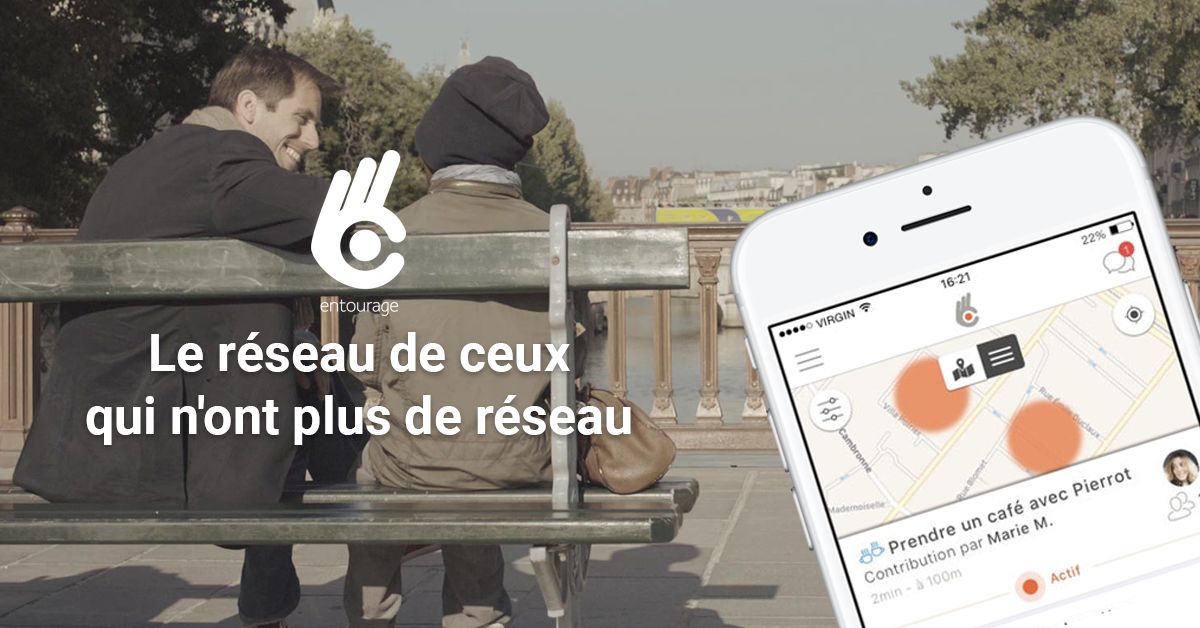
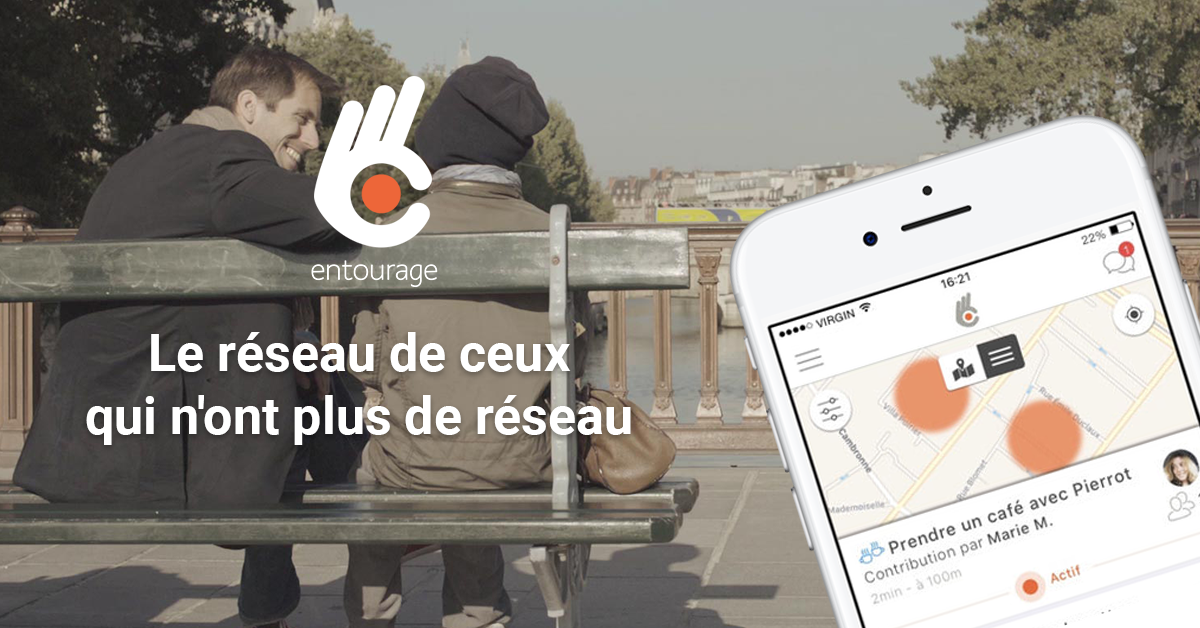
[DON] Landing final + [WEBAPP] Events uuid change +fix hours selection when creating events

Changed region(s): [[0.2467, 0.121, 0.37, 0.5143]]

diff --git a/theme/css/custom-pages.css b/theme/css/custom-pages.css
@@ -11,15 +11,18 @@
 	display: none !important;
 }
 
-#page-le-don-de-chaleur-humaine #site-content .white-btn {
+#page-le-don-de-chaleur-humaine #site-content .btn:not(#subscribe-newsletter) {
 	padding: 0 55px;
 	height: 40px;
 	line-height: 40px;
-	color: #ff5100;
 	font-size: 17px;
-	box-shadow: 0px 3px 7px rgba(0, 0, 0, 0.35);
 	text-transform: uppercase;
 	font-weight: 800;
+}
+
+#page-le-don-de-chaleur-humaine #site-content .white-btn {
+	color: #ff5100;
+	box-shadow: 0px 3px 7px rgba(0, 0, 0, 0.35);
 }
 
 #page-le-don-de-chaleur-humaine #site-content h2 {
@@ -33,10 +36,12 @@
 }
 
 #page-le-don-de-chaleur-humaine #page-header {
+	position: relative;
 	height: 510px;
     display: table;
     width: 100%;
-    background-position: 0 -19px;
+    background-position: 50% top;
+    background-repeat: no-repeat;
     background-size: cover;
     background-image: url(../img/landing-don/header-bg.png);
     color: rgb(255, 255, 255);
@@ -146,6 +151,18 @@
     transition: transform 0.3s;
 }
 
+#page-le-don-de-chaleur-humaine #page-header .names {
+	position: absolute;
+	left: 0;
+	width: 100%;
+	bottom: 20px;
+    display: flex;
+    justify-content: space-between;
+    padding: 0 60px;
+    font-size: 14px;
+    text-shadow: 0px 0px 9px #000, 0px 0px 2px #000;
+}
+
 @keyframes pulseHeart {
     30% {
         transform: rotate(-20deg) scale(0.8);
@@ -219,12 +236,17 @@
 #page-le-don-de-chaleur-humaine #page-video .section-content h3 {
     font-size: 21px;
     font-weight: bold;
-    margin-top: 30px;
+    margin-top: 20px;
 }
 
 #page-le-don-de-chaleur-humaine #page-video .quote {
 	font-style: italic;
 	margin-top: 30px;
+}
+
+#page-le-don-de-chaleur-humaine #page-goals img {
+	max-width: 600px;
+	width: 90%;
 }
 
 #page-le-don-de-chaleur-humaine #page-goals .events {
@@ -271,9 +293,8 @@
 	margin-bottom: 6px;
 }
 
-#page-le-don-de-chaleur-humaine #page-goals .white-btn {
+#page-le-don-de-chaleur-humaine #page-goals .orange-btn {
 	margin-top: 40px;
-	box-shadow: 0 0 0 6px #eee;
 }
 
 #page-le-don-de-chaleur-humaine #page-goals:after {
@@ -313,16 +334,20 @@
 	font-style: italic;
 }
 
+#page-le-don-de-chaleur-humaine #page-stories img {
+	max-width: 90%;
+}
+
 #page-le-don-de-chaleur-humaine #page-stories p strong {
 	font-weight: bold;
 }
 
-#page-le-don-de-chaleur-humaine #page-stories .white-btn {
+#page-le-don-de-chaleur-humaine #page-stories .white-btn:not(#subscribe-newsletter) {
 	padding: 0 15px;
 	height: 33px;
 	line-height: 33px;
 	color: #505050;
-	font-size: 15px;
+	font-size: 14px;
 }
 
 #page-le-don-de-chaleur-humaine #page-stories:after {
@@ -456,21 +481,23 @@
 
 #page-le-don-de-chaleur-humaine #page-quotes ul.section-quotes-list {
     font-size: 0;
-    display: inline-flex;
-    flex-wrap: wrap;
+    display: inline-block;
     max-width: 930px;
-    justify-content: space-between; 
 }
 
 #page-le-don-de-chaleur-humaine #page-quotes li.section-quote {
     position: relative;
     display: inline-block;
     width: 270px;
-    height: fit-content;    
+    margin-right: 20px;
     margin-bottom: 30px;
     vertical-align: top;
     background: #fff;
     box-shadow: 0px 3px 7px 0px rgba(0, 0, 0, 0.21);
+}
+
+#page-le-don-de-chaleur-humaine #page-quotes li.section-quote:nth-child(3n) {
+	margin-right: 0;
 }
 
 #page-le-don-de-chaleur-humaine #page-quotes li.section-quote:after {
@@ -571,6 +598,13 @@
 }
 
 @media (max-width: 800px) {
+	#page-le-don-de-chaleur-humaine #page-header {
+	    background-position: 0;	
+	}
+
+	#page-le-don-de-chaleur-humaine #page-header .names {
+		display: none;
+	}
 
 	#page-le-don-de-chaleur-humaine #page-video .quote {
 	    padding: 0 20px;
@@ -589,8 +623,8 @@
 		font-size: 13px;
 	}
 
-	#page-le-don-de-chaleur-humaine #page-quotes ul.section-quotes-list {
-		justify-content: center;
+	#page-le-don-de-chaleur-humaine #page-quotes li.section-quote {
+		margin-right: 0;
 	}
 
 	#page-le-don-de-chaleur-humaine #page-impots .columns {

diff --git a/theme/js/components/modal-new-event.html b/theme/js/components/modal-new-event.html
@@ -69,7 +69,7 @@
                             <li ng-repeat-start="hour in ctrl.hours">
                                 <a
                                     ng-click="ctrl.time.hour = hour;ctrl.time.min = null"
-                                    ng-class="{selected: hour == ctrl.time}"
+                                    ng-class="{selected: ctrl.time.hour == hour && ctrl.time.min == min}"
                                     ng-bind="hour + ':00'"
                                     ></a>
                             </li>
@@ -78,8 +78,8 @@
                                 ng-repeat="min in ctrl.mins"
                                 >
                               <a
-                                ng-click="ctrl.time.min = min"
-                                ng-class="{selected: ctrl.time.min == min}"
+                                ng-click="ctrl.time.hour = hour;ctrl.time.min = min"
+                                ng-class="{selected: ctrl.time.hour == hour && ctrl.time.min == min}"
                                 ng-bind="hour + ':' + min"
                                 ></a>
                             </li>

diff --git a/theme/js/functions.js b/theme/js/functions.js
@@ -90,6 +90,9 @@ function transformAction(action) {
     }
   }
   else if (action.group_type == 'action' || action.group_type == 'outing') {
+    var uuid_v2 = action.share_url.match(/\/entourages\/([A-Za-z0-9]*)/);
+    action.uuid = uuid_v2[1];
+
     if (action.status == 'closed') {
       action.title = 'TERMINÉ - ' + action.title;
     }

diff --git a/theme/js/map.js b/theme/js/map.js
@@ -204,6 +204,8 @@ angular.module('entourageApp', ['ui.bootstrap', 'ImageCropper'])
           generateMarkers();
           isMapEmpty();
           showCarousel();
+
+          console.info(map.actions)
           
           map.loaded = true;
           $scope.$apply();

diff --git a/theme/page-le-don-de-chaleur-humaine.php b/theme/page-le-don-de-chaleur-humaine.php
@@ -28,6 +28,10 @@ get_header();
             Je fais un don
         </a>
     </div>
+    <div class="names">
+        <p><strong>Eric</strong>, dans la rue depuis 3 ans</p>
+        <p><strong>Valentine</strong>, membre du réseau Entourage</p>
+    </div>
 </div>
 
 <section
@@ -38,13 +42,13 @@ get_header();
     <iframe class="youtube-player" type="text/html" width="640" height="360" src="https://www.youtube.com/embed/DspJaZLO79k?version=3&amp;rel=1&amp;fs=1&amp;autohide=2&amp;showsearch=0&amp;showinfo=1&amp;iv_load_policy=1&amp;wmode=transparent" allowfullscreen="true"></iframe>
 
     <div class="section-content">
-        <p>Parce qu’à la rue, on souffre de la faim, du froid <strong>et surtout de solitude</strong>.</p>
+        <p>Parce qu’à la rue, on souffre de la faim, du froid et surtout de solitude.</p>
 
-        <p>Aider les personnes SDF, ce n’est pas seulement leur donner une pièce, à manger ou un toit, <strong>c’est avant tout leur redonner leur humanité</strong>, leur place dans la société.</p>
+        <p>Aider les personnes SDF, ce n’est pas seulement leur donner une pièce, à manger ou un toit, c’est avant tout leur redonner leur humanité, leur place dans la société.</p>
 
-        <p>Notre vocation chez Entourage : les “entourer” d’<strong>un réseau de relations bienveillantes</strong> pour qu’elles ne se sentent plus isolées.</p>
+        <p>Notre vocation chez Entourage&nbsp;: les “entourer” d’un réseau de relations bienveillantes pour rompre leur solitude.</p>
 
-        <p><strong>Pour Noël, aidez-vous à réchauffer le cœur des personnes SDF et à déployer nos actions partout en France !</strong></p>
+        <h3>Pour Noël, aidez-nous à réchauffer le cœur des personnes SDF et à déployer nos actions partout en France&nbsp;!</h3>
     </div>
     <a
         class="btn white-btn"
@@ -52,12 +56,19 @@ get_header();
         >
         Je fais un don
     </a>
-    <p class="quote">« La chaleur du cœur a autant d’importance que la chaleur du corps. » </p>
+    <p class="quote">«&nbsp;La chaleur du cœur a autant d’importance que la chaleur du corps.&nbsp;» </p>
 </section>
 
 <section id="page-goals" class="section">
     <h2>Grâce à votre don, nous pourrons<br><strong><b>pendant les fêtes et en 2019&nbsp;:</b></strong></h2>
-    <div class="events">
+    <ul>
+        <li><img src="<?php asset_url('img/landing-don/1.jpg'); ?>"/></li>
+        <li><img src="<?php asset_url('img/landing-don/2.jpg'); ?>"/></li>
+        <li><img src="<?php asset_url('img/landing-don/3.jpg'); ?>"/></li>
+        <li><img src="<?php asset_url('img/landing-don/4.jpg'); ?>"/></li>
+        <li><img src="<?php asset_url('img/landing-don/5.jpg'); ?>"/></li>
+    </ul>
+    <!--div class="events">
         <div class="card">
             <img src="<?php asset_url('img/landing-don/groupe.png'); ?>">
             <p>Offrir <strong>2 grandes soirées de Noël entre personnes SDF et riverains</strong><br>à Paris et à Lyon</p>
@@ -71,9 +82,9 @@ get_header();
         <li>Convaincre <strong>100 000 nouveaux membres</strong> de rejoindre le réseau</li>
         <li>Passer de <strong>5 000 à 15 000 actions solidaires</strong> par an</li>
         <li>Etendre le réseau Entourage dans <strong>5 nouvelles villes</strong></li>
-    </ul>
+    </ul-->
     <a
-        class="btn white-btn"
+        class="btn orange-btn"
         href="/don"
         >
         Je fais un don
@@ -107,7 +118,7 @@ get_header();
             <div class="column">
                 <div class="top">Avec un don de 50€</div>
                 <div class="middle">
-                    <strong>Vous permettez d’engager 25 nouveaux membres (avec ou sans-abri) dans le réseau Entourage</strong>
+                    <strong>Vous permettez d’aider 2 personnes à mener une action solidaire pour aider les SDF</strong>
                     <div class="plus">+</div>
                     <div>Vous déduisez <strong>33€</strong> de votre impôt</div>
                 </div>
@@ -116,7 +127,7 @@ get_header();
             <div class="column">
                 <div class="top">Avec un don de 100€</div>
                 <div class="middle">
-                    <strong>Vous financez la formation complète d’un ambassadeur sur deux jours</strong>
+                    <strong>Vous permettez d'engager 30 nouveaux membres avec ou sans-abri dans le Réseau Entourage</strong>
                     <div class="plus">+</div>
                     <div>Vous déduisez <strong>66€</strong> de votre impôt</div>
                 </div>
@@ -125,7 +136,7 @@ get_header();
             <div class="column">
                 <div class="top">Avec un don de 150€</div>
                 <div class="middle">
-                    <strong>Nous pouvons organiser une soirée solidaire rassemblant 50 voisins avec et sans-abri</strong>
+                    <strong>Vous permettez à Entourage d'organiser une soirée solidaire rassemblant 50 voisins avec et sans-abri</strong>
                     <div class="plus">+</div>
                     <div>Vous déduisez <strong>99€</strong> de votre impôt</div>
                 </div>
@@ -216,7 +227,7 @@ get_header();
         <li class="section-quote">
             <div class="quote-content">
                 <p>
-                    <a href="/don"> Je fais un don</a> pour plus d’humanité dans la rue partout en France !
+                    <a href="/don"> Je fais un don</a> pour plus d’humanité dans la rue partout en France&nbsp;!
                 </p>
             </div>
             <div class="quote-author">

diff --git a/theme/page-app.php b/theme/page-app.php
@@ -8,8 +8,9 @@
         $response = wp_remote_retrieve_body(wp_remote_get('https://api.entourage.social/api/v1/public/entourages/' . $_GET['token']));
         if (!empty($response)) {
             $response = json_decode($response);
-            if (!empty($response->entourage->uuid))
+            if (!empty($response->entourage->uuid)) {
                 $entourage = $response->entourage;
+            }
         }
     }
 
@@ -18,15 +19,19 @@
     if (!empty($entourage)) {
         $og_url = get_bloginfo('url') . "/app/?token=" . $_GET['token'];
         $og_title = $entourage->title;
-        if ($entourage->group_type == "outing")
-            $og_description = "Rejoignez l'événement solidaire de " . ucfirst($entourage->author->display_name) . ", et comme les 50.000 membres du réseau Entourage, passez vous aussi concrètement à l'action pour les personnes sans-abri près de chez vous";
-        else
+        if ($entourage->group_type == "outing") {
+            $og_description = "Rejoignez " . ucfirst($entourage->author->display_name) . " à cet événement convivial sur le réseau solidaire Entourage, pour ressentir la chaleur humaine des moments entre ";
+            $og_image = 'img/share-fb-event.jpg';
+        } else {
             $og_description = "Vous pouvez aider ? Rejoignez " . ucfirst($entourage->author->display_name) . " et les 50.000 membres du réseau solidaire Entourage et passez vous aussi concrètement à l'action pour les personnes sans-abri près de chez vous";
+            $og_image = 'img/share-fb-2.png';
+        }
     }
     else {
         $og_url = get_bloginfo('url') . "/app";
         $og_title = !empty($custom_fields['meta_titre']) ? $custom_fields['meta_titre'][0] : get_the_title($wp_query->post->ID);
         $og_description = !empty($custom_fields['meta_description']) ? $custom_fields['meta_description'][0] : get_bloginfo('description');
+        $og_image = 'img/share-fb-2.png';
     }
 
 ?>
@@ -45,7 +50,7 @@
     <meta property="og:title" content="<?php echo htmlentities($og_title); ?>">
     <meta property="og:type" content="website">
     <meta property="og:url" content="<?php echo $og_url; ?>">
-    <meta property="og:image" content="<?php asset_url('img/share-fb.png'); ?>">
+    <meta property="og:image" content="<?php echo asset_url($og_image); ?>">
     <meta property="og:description" content="<?php echo htmlentities($og_description); ?>">
     <meta property="fb:app_id" content="280727035774134">
     <meta name="apple-mobile-web-app-capable" content="yes">

diff --git a/theme/header.php b/theme/header.php
@@ -46,7 +46,7 @@
 	<meta property="og:title" content="<?php echo $og_title; ?>">
     <meta property="og:type" content="website">
     <meta property="og:url" content="<?php echo wp_get_canonical_url(); ?>">
-    <meta property="og:image" content="<?php if (!empty($custom_fields['facebook_image'])) echo $custom_fields['facebook_image'][0]; else asset_url('img/share-fb.png'); ?>">
+    <meta property="og:image" content="<?php if (!empty($custom_fields['facebook_image'])) echo $custom_fields['facebook_image'][0]; else asset_url('img/share-fb-2.png'); ?>">
     <meta property="og:description" content="<?php echo $og_description; ?>">
     <meta property="fb:app_id" content="280727035774134">
     <meta name="apple-mobile-web-app-capable" content="yes">

diff --git a/theme/template-parts/section-numbers.php b/theme/template-parts/section-numbers.php
@@ -3,10 +3,22 @@
  * The template part for displaying section with "numbers" type
  *
  */
+
+	$response = wp_remote_retrieve_body(wp_remote_get('https://api.entourage.social/api/v1/public/stats'));
+	if (!empty($response)) {
+	    $response = json_decode($response);
+	    $members = $response->users;
+	    $actions = $response->actions + $response->events;
+	}
 ?>
 
 <section <?php post_class(); ?>>
-	<?php the_content(); ?>
+
+	<ul>
+		<li><strong><?php echo (!empty($members) ? $members : "46154"); ?></strong>&nbsp;membres</li>
+		<li><strong><?php echo (!empty($actions) ? $actions : "4071"); ?></strong>&nbsp;actions solidaires</li>
+		<li><strong>100%</strong>&nbsp;de bienveillance</li>
+	</ul>
 </section>
 
 <style type="text/css">
